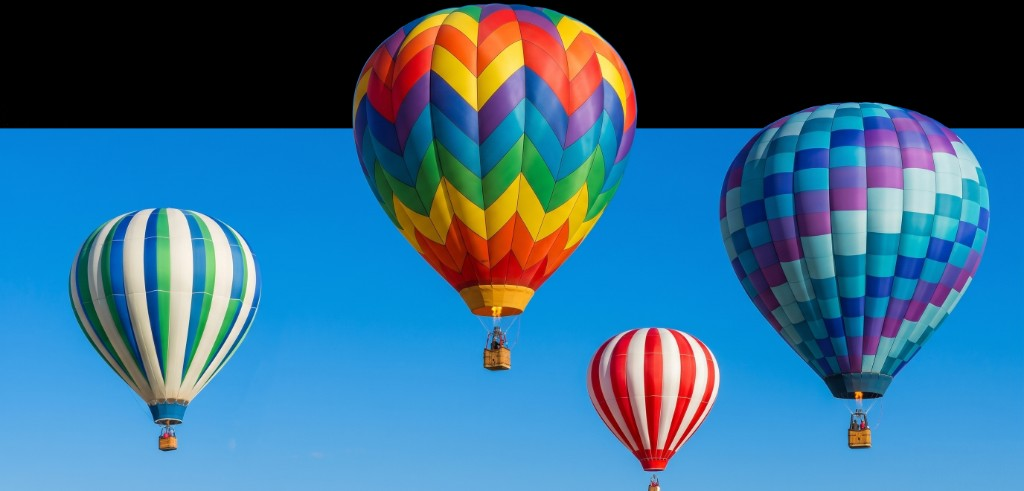
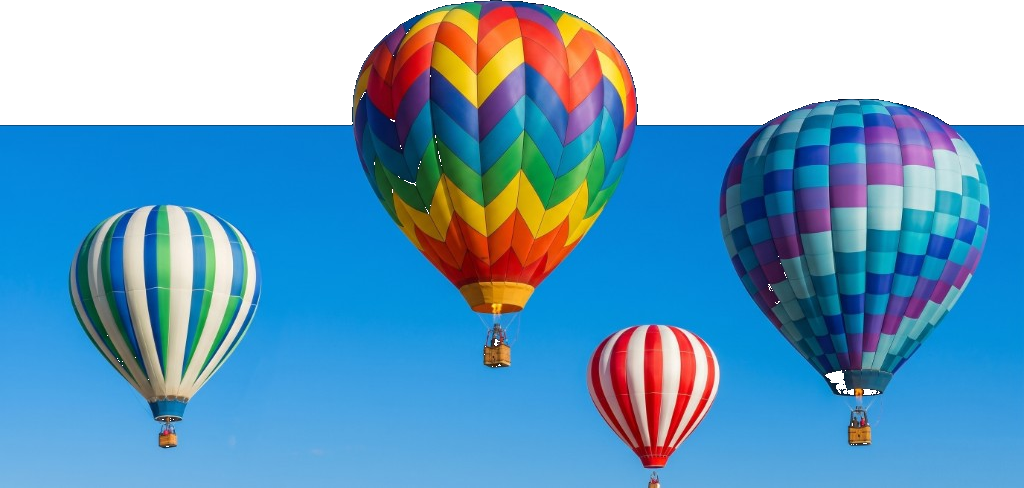
Fix registration balloon image transparency and alignment.
Make the black bar transparent and anchor the hot air balloon artwork to the bottom-right of the card.

diff --git a/index.html b/index.html
@@ -1038,23 +1038,27 @@
     .registration-visual {
       position: relative;
       width: 100%;
-      aspect-ratio: 16 / 9;
-      margin: clamp(32px, 5vw, 58px) 0 0;
+      min-height: clamp(150px, 22vw, 220px);
+      margin: 0;
       flex: 0 0 auto;
-      overflow: visible;
+      overflow: hidden;
       border-radius: var(--radius) var(--radius) 0 0;
       background: transparent;
     }
 
     .registration-visual img {
       position: absolute;
-      top: clamp(-150px, -10vw, -132px);
-      left: 50%;
+      right: 0;
+      bottom: 0;
+      left: auto;
+      top: auto;
       display: block;
-      width: 100%;
+      width: min(108%, 520px);
       height: auto;
       max-width: none;
-      transform: translateX(-50%);
+      object-fit: contain;
+      object-position: right bottom;
+      transform: none;
       filter: drop-shadow(0 18px 28px rgba(48, 31, 24, 0.16));
     }
 
